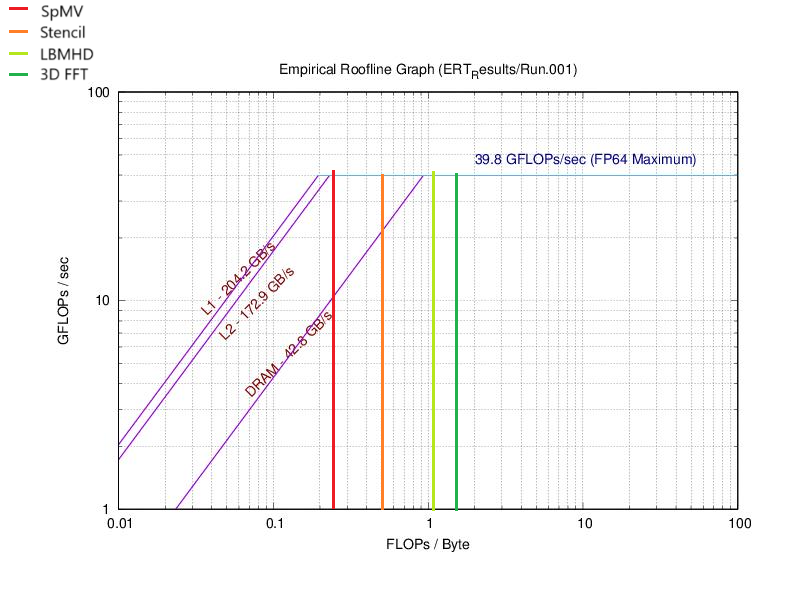
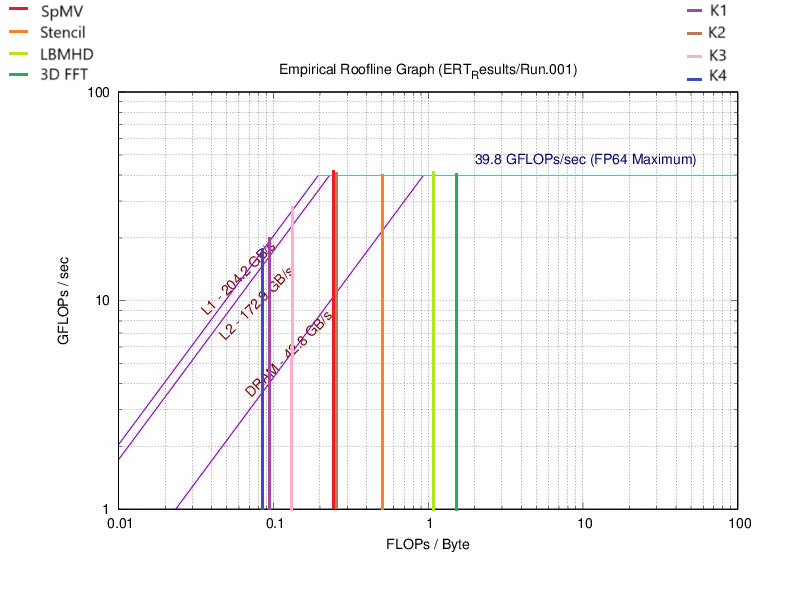
updated the write up with the missing components

Changed region(s): [[0.303, 0.3415, 0.3939, 0.8382], [0.8788, 0.0, 0.9394, 0.1552]]

diff --git a/projects/project1/writeup.md b/projects/project1/writeup.md
@@ -61,34 +61,73 @@ Consider the four FP kernels in "Roofline: An Insightful Visual Performance Mode
 
 ![Kernels](FPkernels/four_fp_kernels.png)
 
-**Roofline Plots**
+### Roofline Plots
 
-amd-20
+Following are the roofline plots for amd20, intel16 and intel18 machines. We report bandwidth for each memory type, the peak performance and the ridge point (where the system transitions from being memory-bound to compute-bound). On each plot, we have overlaid the four dwarfs kernels and the warmup kernels to understand their behaviour on these machines.
+
+**Machine: amd-20**
+
+| Component         | Bandwidth / Performance |
+|------------------|-----------------------|
+| L1 Bandwidth    | 204.2 GB/s            |
+| L2 Bandwidth    | 172.9 GB/s            |
+| DRAM Bandwidth  | 42.8 GB/s             |
+| Peak Performance | 39.8 GFLOPs/s         |
+| Ridge Point     | 0.929906 FLOPs/Byte   |
+
+
 ![Kernels](FPkernels/roofline_amd20.png)
 
-intel-16
+**Machine: intel-16**
+
+| Component         | Bandwidth / Performance |
+|------------------|-----------------------|
+| L1 Bandwidth    | 200.8 GB/s            |
+| L2 Bandwidth    | 129.7 GB/s            |
+| L3 Bandwidth    | 79.2 GB/s             |
+| DRAM Bandwidth  | 27.9 GB/s             |
+| Peak Performance | 35.4 GFLOPs/s         |
+| Ridge Point     | 1.268817 FLOPs/Byte   |
+
+
+
 ![Kernels](FPkernels/roofline_intel16.png)
 
-intel-16-k80
-![Kernels](FPkernels/roofline_intel16_k80.png)
 
-intel-18
+**Machine: intel-18**
+
+| Component         | Bandwidth / Performance |
+|------------------|-----------------------|
+| L1 Bandwidth    | 244.4 GB/s            |
+| L2 Bandwidth    | 180.6 GB/s            |
+| L3 Bandwidth    | 86.7 GB/s             |
+| DRAM Bandwidth  | 40.8 GB/s             |
+| Peak Performance | 45.7 GFLOPs/s         |
+| Ridge Point     | 1.12009 FLOPs/Byte    |
+
+
 ![Kernels](FPkernels/roofline_intel18.png)
 
 
-**Analysis:**
+### Analysis
 
-The arithmetic intensity of the Sparse Matrix Vector operation (SpMV) is 0.25. The operation consists of a dot product of each row of $ M $ ($ m \times n $) with $ x $ ($ n \times 1 $), totaling $ 2mn $ operations. It requires accessing $ M $ ($ mn $ elements), $ x $ ($ mn $ elements due to multiple accesses per row), and writing $ y $ ($ m $ elements), resulting in a total memory traffic of approximately $ 8mn $ bytes and an intensity of $ \frac{2mn}{8mn} = \frac{1}{4} $ FLOPs/byte. It is plotted in red line on the roofline models of HPC's four machines, showing that for each, it is memory/bandwidth bound and far from peak performance. For intel16 and intel18, it is even bounded by L3-cache traffic. To optimize, we can improve data locality using cache blocking, use vectorized operations, exploit sparsity patterns with compressed storage (e.g., CSR format), and leverage prefetching to reduce memory latency.
 
-The arithmetic intensity of the stencil operation is approximately 0.5 FLOPs/byte. This value arises because each grid point update involves 7 neighboring points, leading to 8 FLOPs (typically a weighted sum: 7 additions and 1 multiplication). However, for a 3D grid, data reuse is limited, and each point must be reloaded from memory due to limited cache capacity. Each grid point requires loading 8 values (input and neighbors) and writing 1 output, totaling 9 memory accesses (assuming no reuse across timesteps). With 8 FLOPs per update, the intensity is $ \frac{8}{16} = 0.5 $ FLOPs/byte. Roofline analysis for each of the 4 machines suggests that it is better than SpMV in performance but it remains DRAM-bound. To optimize, we can improve spatial and temporal locality using cache-blocking techniques, implement loop fusion to reduce memory traffic, and apply software prefetching to enhance data reuse across timesteps.
+The arithmetic intensity of the Sparse Matrix Vector operation (SpMV) is 0.25. It consists of a dot product of each row of $ M $ ($ m \times n $) with $ x $ ($ n \times 1 $), totaling $ 2mn $ operations. Accessing $ M $ ($ mn $ elements), $ x $ ($ mn $ elements due to multiple accesses per row), and writing $ y $ ($ m $ elements) results in approximately $ 8mn $ bytes of memory traffic, giving an intensity of $ \frac{2mn}{8mn} = \frac{1}{4} $ FLOPs/byte. Roofline models show that SpMV is memory/bandwidth bound across HPC's four machines, with intel16 and intel18 further constrained by L3-cache traffic.  
 
-The arithmetic intensity of the LBMHD kernel is approximately 1.07 FLOPs/byte. As a structured grid code, it involves iterative time-stepping where each update depends on neighboring grid points, leading to significant memory traffic. The roofline model analysis indicates that it is compute-bound on amd20 and intel16-k80 but still memory-bound on the intel16 and intel18 platforms. To optimize, we can exploit vectorization and FMA (fused multiply-add) operations to maximize computational efficiency on compute-bound architectures, while for memory-bound cases, improving cache blocking, reducing memory latency through prefetching, and optimizing data layout for better locality can enhance performance.   
+The arithmetic intensity of the stencil operation is approximately 0.5 FLOPs/byte. Each grid point update involves 7 neighboring points, leading to 8 FLOPs (7 additions, 1 multiplication). In a 3D grid, limited cache capacity reduces data reuse, requiring each point to be reloaded, resulting in 9 memory accesses per update. With 8 FLOPs per update, the intensity is $ \frac{8}{16} = 0.5 $ FLOPs/byte. Roofline analysis indicates better performance than SpMV but still DRAM-bound.  
 
-The arithmetic intensity of the 3D FFT ranges from 1.09 to 1.64 FLOPs/byte, depending on problem size (128³ vs. 512³). FFT involves a series of global memory accesses and computationally expensive matrix transpositions, leading to varied intensity. The roofline model shows that due to the very high arithmetic intensity of FFT, it is limited by the compute resources available. To optimize, we can increase parallelism by exploiting multi-threading and vectorization, utilize FFT-specific hardware acceleration (e.g., GPU-accelerated FFT libraries like cuFFT), and reduce communication overhead in distributed FFT computations.
+The arithmetic intensity of the LBMHD kernel is about 1.07 FLOPs/byte. As a structured grid code with iterative time-stepping, it has significant memory traffic. Roofline models show it is compute-bound on amd20 and intel16-k80 but memory-bound on intel16 and intel18.  
+
+The arithmetic intensity of the 3D FFT ranges from 1.09 to 1.64 FLOPs/byte, depending on problem size (128³ vs. 512³). FFT involves frequent global memory accesses and computationally expensive transpositions, making it compute-limited in the roofline model.  
+
+The four arithmetic kernels have very low intensity, all below 1, making them highly memory-bound on each machine. Roofline models suggest they perform poorly on all machines due to bandwidth constraints, with no significant compute bottlenecks.
+
+**Optimizations:**  
+For SpMV, improving data locality via cache blocking, vectorized operations, compressed storage (CSR format), and prefetching can reduce memory latency. Stencil computations benefit from cache-blocking, loop fusion, and software prefetching for better data reuse. LBMHD optimization includes vectorization, FMA operations for compute-bound cases, and cache blocking plus memory latency reduction for memory-bound cases. FFT performance can be enhanced through multi-threading, vectorization, FFT-specific hardware acceleration (e.g., cuFFT), and reducing communication overhead in distributed settings. For the arithmetic kernels, optimizations could include cache blocking, loop unrolling, vectorization, prefetching, and memory alignment.
 
 ## Part 3: Agoge
 
-**Sod Shock Tube Problem**
+### Exploring the Sod Shock Tube Problem
 
 With the default parameters of SodShockTube experiment, it finishes in around 233ms. Following is the code generated performance report.
 
@@ -103,7 +142,7 @@ The following plot is generated through the visualization script.
 
 ![alt text](sodshock_plot.png)
 
-### Modifying the dimension resolution
+**Modifying the dimension resolution**
 Doubling the spacing in `x` increasing the eulersolve and compute time by a factor of 6. The zone updates are reduced by 0.67. The output plot looks a little more stable than the previous one.
 
 | Timer Name       | Total Time (s) | Calls | Avg (ms) | Mega Zone Updates/s |
@@ -119,47 +158,54 @@ If nx=ny=nz, and their values  versus total time is plotted, we see that the tim
 
 ![alt text](graph.png)
 
-### Modifying the time step
+**Modifying the time step**
 
 Increasing the `cfl` parameter reduces the execution time very fast because it controls the number of time steps. Decreasing it makes the experiment slower. The default parameter 0.1 results in 1000 steps. Bringing it to 0.001 increases the number of steps to around 10000 with the total time being 21s. Zone updates stay the same.
 
 
-### Enabling/Disabling Gravity
+**Enabling/Disabling Gravity**
 Gravity has a huge impact on time because enabling it by setting `use_gravity: true` adds an additional poisson solver step. Eulersolve and computeL roughly take the same amount of time as without gravity by the poisson solver takes additional 14-15s.
 
-### Modifying Sound Crossings
+**Modifying Sound Crossings**
 Increasing `sound_crossings` increases both the eulersolve and computeL time. There is not a significant effect on zone updates/s.
 
-**Gravity Collapse Problem**
+### Gravity Collapse Problem
 
-Vtune analysis was performed and DP GFLOPS, DRAM and AI values were reported for various input sizes.
+Vtune analysis was performed and DP GFLOPS, DRAM and AI values are reported for various input sizes.
 
 ### Euler Solver (FD)
-| size | DP GFLOPS | DRAM, GB/sec | Arithmetic Intensity |
-|------|-----------|-------------|----------------------|
-| 32   | 2.217     | 6.524       | 0.339822195         |
-| 64   | 2.128     | 6.853       | 0.31052094          |
-| 128  | 1.879     | 5.75        | 0.326782609         |
-| 256  | 1.975     | 6.08        | 0.324835526         |
-| 512  | 1.962     | 5.792       | 0.338743094         |
+| size | DP GFLOPS | DRAM, GB/sec | Arithmetic Intensity | Mega Zone updates/sec |
+|------|-----------|-------------|----------------------|-|
+| 32   | 2.217     | 6.524       | 0.339822195         | 4.69 |
+| 64   | 2.128     | 6.853       | 0.31052094          | 3.97 |
+| 128  | 1.879     | 5.75        | 0.326782609         | 3.64 |
+| 256  | 1.975     | 6.08        | 0.324835526         | 3.48 |
+| 512  | 1.962     | 5.792       | 0.338743094         | 3.36 |
 
 ### Gravity Solver (FFT)
-| size | DP GFLOPS | DRAM, GB/sec | Arithmetic Intensity |
-|------|-----------|-------------|----------------------|
-| 32   | 4.92      | 0.008       | 615                  |
-| 64   | 5.095     | 0.222       | 22.95045045          |
-| 128  | 4.278     | 2.672       | 1.601047904          |
-| 256  | 2.994     | 2.334       | 1.28277635           |
-| 512  | 2.457     | 2.552       | 0.962774295          |
-S
+| size | DP GFLOPS | DRAM, GB/sec | Arithmetic Intensity |Zone updates/sec|
+|------|-----------|-------------|----------------------|-|
+| 32   | 4.92      | 0.008       | 615                  | 10.8 |
+| 64   | 5.095     | 0.222       | 22.95045045          | 9.41 |
+| 128  | 4.278     | 2.672       | 1.601047904          | 7.28|
+| 256  | 2.994     | 2.334       | 1.28277635           | 5.84|
+| 512  | 2.457     | 2.552       | 0.962774295          | 4.1 |
 
-Following show the plot of arithmetic intensity as the input size increases. The y-axis, AI, is in logarithmic scale.
+
+To estimate the Big-O scaling, we show the following plot of zone updates per second as the input size increases. The y-axis, mega zone updates per second, is in logarithmic  $\log_3$ scale. The x-axis is input size per dimension.
 
 ![alt text](eulersolver.png)
+For the Euler solver, which is a finite difference solver, we observe that the trend converges to a constant line. This happens because the zone updates scale linearly with the input size. As the grid size increases, the number of updates per grid point remains roughly the same, leading to a flat line in the plot. This flat line indicates that the ratio of zone updates to input size is a constant, reflecting linear scaling with respect to the input size.
 
 ![alt text](gravitysolver.png)
+
+For the Gravity solver, we see that the trend initially decreases but eventually flattens out. This behavior occurs because the FFT algorithm has a time complexity of $O(N\log N)$, where N is the number of grid points. As the grid size increases, the FFT solver becomes more efficient relative to its input size, and the growth rate of the number of operations slows down. The flattening trend in the plot indicates that, for larger grid sizes, the solver's performance is more efficient, leading to fewer operations per zone update as the grid size grows. However, the scaling is not linear due to the logarithmic factor in the time complexity, which causes the decrease in zone updates per second.
 
 
 Here is the AI vs Peak flop rate plotted on intel-18 roofline model.
 
 ![alt text](eulergravityroofline.png)
+
+The points evaluating on a 32^3 grid are very jittery, so they cannot be fully relied upon. However, the far-right point for the Gravity Solver at the  32^3 grid size indicates a very high arithmetic intensity, likely because the input size fits in the cache and the solver’s memory access patterns may not be properly detected by VTune.
+
+The plot also shows that the Gravity Solver is positioned further right than the Euler Solver, suggesting that the Gravity Solver is more compute-bound. This is due to its higher arithmetic intensity, implying that the solver is utilizing more computational resources relative to memory bandwidth.
